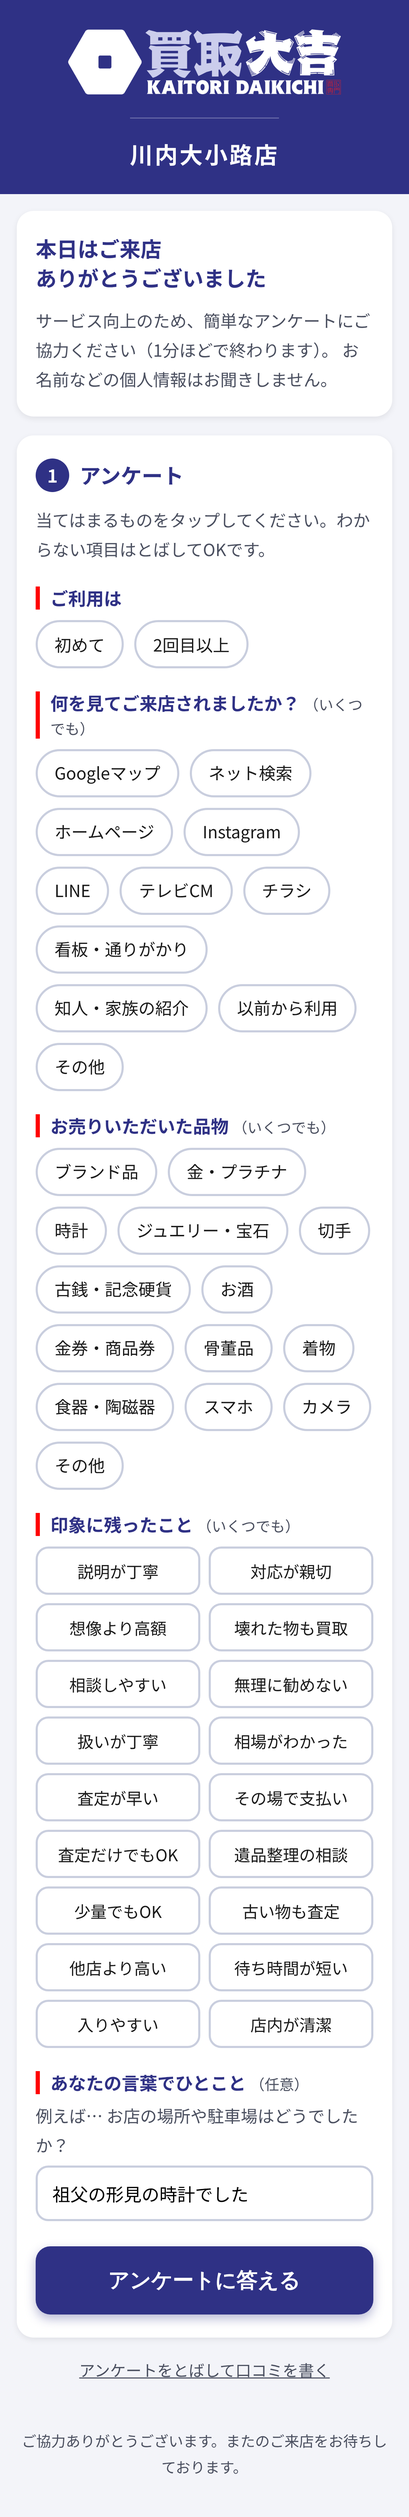
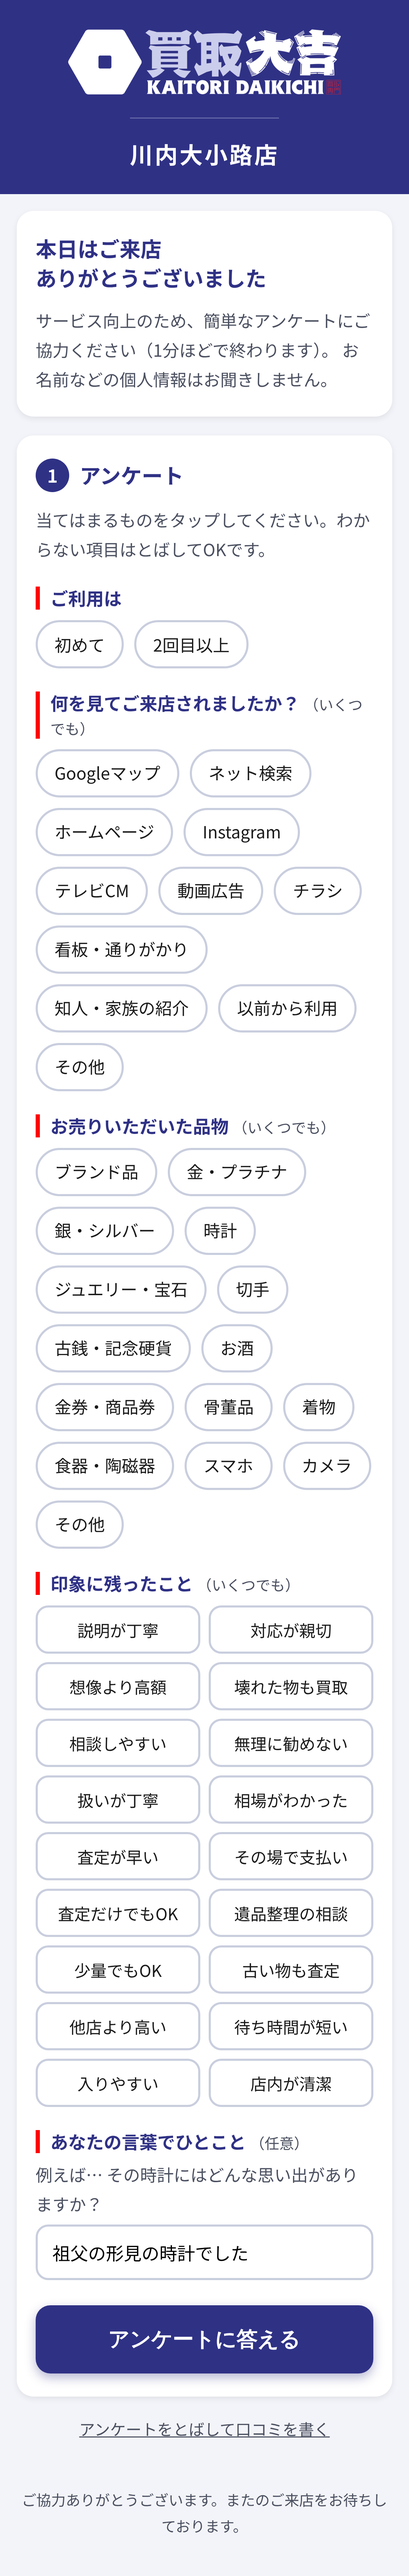
「あなたの言葉でひとこと」の質問と記入例を、選んだ項目に合わせて変える
- 遺品整理・壊れた物 → きっかけ、初めて・無理に勧めない → 来店前の不安、
  品物1つ → その品物の思い出、スタッフ系 → スタッフ、お店の環境系 → 場所・駐車場
- 質問・記入例に選んだ品物名を入れる（例：その時計にはどんな思い出が…）
- 品物ごとに思い出の記入例を用意（時計・着物・切手など）
- 一言を書き始めたら質問は固定。質問も一言と一緒に一時保存し、再読み込み後もずれない

Claude-Session: https://claude.ai/code/session_019pqPey41PXqapbJbBahgUt

diff --git a/index.html b/index.html
@@ -361,13 +361,28 @@ const CONFIG = {
   //     beforeBody  … 良かった点の前。後ろに「でも、」をつけて体験へつなぐ（不安だったこと）
   //     afterBody   … 良かった点の後（スタッフ・お店のこと）
   //   ex: 入力欄に薄く出す記入例（文の形をまねしてもらいやすい）
-  questions: [
-    { q: "売ろうと思ったきっかけは？",          ex: "例：実家の片付けをしていて",       pos: "start" },
-    { q: "その品物にはどんな思い出がありますか？", ex: "例：祖父の形見の時計でした",       pos: "afterOpening" },
-    { q: "お店に来る前、不安だったことは？",      ex: "例：買取は初めてで緊張していました", pos: "beforeBody" },
-    { q: "対応したスタッフはどうでしたか？",      ex: "例：担当の方がとても話しやすかったです", pos: "afterBody" },
-    { q: "お店の場所や駐車場はどうでしたか？",    ex: "例：駐車場に停めやすかったです",     pos: "afterBody" },
-  ],
+  //   {item} は選んだ品物の言葉（品物が1つの時）に置き換わる
+  //   どの質問を出すかは、上で選んだ項目から決める（chooseQuestion を参照）
+  questions: {
+    trigger:       { q: "売ろうと思ったきっかけは？",            ex: "例：実家の片付けをしていて",              pos: "start" },
+    triggerIhin:   { q: "売ろうと思ったきっかけは？",            ex: "例：母の遺品を整理していて",              pos: "start" },
+    triggerBroken: { q: "売ろうと思ったきっかけは？",            ex: "例：壊れて使わなくなった{item}を整理したくて", pos: "start" },
+    memory:        { q: "その{item}にはどんな思い出がありますか？", ex: "例：長年大事にしていた{item}でした",     pos: "afterOpening" },
+    worry:         { q: "お店に来る前、不安だったことは？",        ex: "例：買取は初めてで緊張していました",      pos: "beforeBody" },
+    worryPush:     { q: "お店に来る前、不安だったことは？",        ex: "例：しつこく勧められないか心配でした",    pos: "beforeBody" },
+    staff:         { q: "対応したスタッフはどうでしたか？",        ex: "例：担当の方がとても話しやすかったです",  pos: "afterBody" },
+    place:         { q: "お店の場所や駐車場はどうでしたか？",      ex: "例：駐車場に停めやすかったです",          pos: "afterBody" },
+  },
+  // 「思い出」の記入例を品物ごとに変える（ないものは上の memory の例を使う）
+  memoryEx: {
+    "時計": "例：祖父の形見の{item}でした",
+    "着物": "例：母が大切にしていた{item}でした",
+    "金・プラチナ": "例：昔プレゼントでもらった物でした",
+    "ジュエリー・宝石": "例：昔プレゼントでもらった物でした",
+    "古銭・記念硬貨": "例：父が集めていた物でした",
+    "切手": "例：父が集めていた物でした",
+    "骨董品": "例：祖父の代から家にあった物でした",
+  },
 };
 
 /* =========================================================
@@ -402,18 +417,38 @@ function reroll() {
   });
 }
 
-// 質問は開いた時に1回だけ決める（「別の言い方にする」で質問が変わると、答えとずれるため）
-// 再読み込みしても同じ質問になるよう、番号を一時保存する
-let QUESTION;
-(function chooseQuestion() {
-  let i = -1;
-  try { i = parseInt(sessionStorage.getItem("review-q"), 10); } catch (_) {}
-  if (!(i >= 0 && i < CONFIG.questions.length)) i = Math.floor(Math.random() * CONFIG.questions.length);
-  try { sessionStorage.setItem("review-q", String(i)); } catch (_) {}
-  QUESTION = CONFIG.questions[i];
+/* ---- 「あなたの言葉でひとこと」の質問と記入例 ----
+   上で選んだ項目に合わせて、答えやすい質問を出す（上の行ほど優先）
+   ・一言を書き始めたら質問は固定（質問と答えがずれないように）
+   ・何も当てはまらない時は、開いた時にランダムで決めた質問 */
+const Q_KEY = "review-q2";
+const DEFAULT_Q = pick(["trigger", "worry", "staff", "place"]);
+let QUESTION = null;
+function chooseQuestion(sel) {
+  const has = l => sel.point.includes(l);
+  const items = sel.item.filter(x => x !== "その他");
+  const one = items.length === 1 ? items[0] : null;            // 品物が1つだけの時
+  const word = one || "";   // 質問ではボタンの表示（「金・プラチナ」等）をそのまま使う（短く分かりやすく）
+  const Q = CONFIG.questions;
+  let key, ex;
+  if (has("遺品整理の相談"))                                     key = "triggerIhin";
+  else if (has("壊れた物も買取"))                                key = "triggerBroken";
+  else if (has("無理に勧めない") || has("査定だけでもOK"))       key = "worryPush";
+  else if (sel.visit === "初めて")                               key = "worry";
+  else if (one)                                                  { key = "memory"; ex = CONFIG.memoryEx[one]; }
+  else if (["対応が親切", "相談しやすい", "扱いが丁寧", "説明が丁寧"].some(has)) key = "staff";
+  else if (["待ち時間が短い", "入りやすい", "店内が清潔"].some(has))           key = "place";
+  else                                                           key = DEFAULT_Q;
+  const base = Q[key];
+  const put = t => t.replace(/\{item\}/g, word || "物");
+  return { key, q: put(base.q), ex: put(ex || base.ex), pos: base.pos };
+}
+function updateQuestion() {
+  if (QUESTION && ownValue()) return;                         // 書き始めたら固定
+  QUESTION = chooseQuestion(selected);
   document.querySelectorAll(".ownQ").forEach(el => el.textContent = QUESTION.q);
   document.querySelectorAll(".own").forEach(el => el.placeholder = QUESTION.ex);
-})();
+}
 
 // ["A","B","C"] → "A、BとC"
 function joinItems(list) {
@@ -566,6 +601,7 @@ function build() {
 
 // quiet=true のときは、お客様が手で直した文章があれば何もしない（確認も出さない）
 function refresh(quiet) {
+  updateQuestion();   // 選んだ項目に合わせて質問・記入例を更新（書き始めていれば固定のまま）
   const edited = textarea.value !== lastGenerated && textarea.value.trim() !== "";
   if (edited) {
     if (quiet) return;
@@ -588,14 +624,27 @@ textarea.addEventListener("input", fitHeight);
 const OWN_KEY = "review-own";
 function syncOwn(src) {
   ownInputs.forEach(other => { if (other !== src) other.value = src.value; });
-  try { sessionStorage.setItem(OWN_KEY, src.value); } catch (_) { /* 保存できない環境でも動く */ }
+  try {
+    sessionStorage.setItem(OWN_KEY, src.value);
+    // 一言と一緒に「どの質問への答えか」も保存（再読み込みしても質問と答えがずれない）
+    if (src.value.trim() && QUESTION) sessionStorage.setItem(Q_KEY, JSON.stringify(QUESTION));
+    else sessionStorage.removeItem(Q_KEY);
+  } catch (_) { /* 保存できない環境でも動く */ }
   refresh(true);
 }
 ownInputs.forEach(inp => ["input", "compositionend", "change"].forEach(ev =>
   inp.addEventListener(ev, () => syncOwn(inp))));
 try {
   const saved = sessionStorage.getItem(OWN_KEY);
-  if (saved) ownInputs.forEach(inp => inp.value = saved);
+  const savedQ = JSON.parse(sessionStorage.getItem(Q_KEY) || "null");
+  if (saved) {
+    ownInputs.forEach(inp => inp.value = saved);
+    if (savedQ && savedQ.pos) {
+      QUESTION = savedQ;
+      document.querySelectorAll(".ownQ").forEach(el => el.textContent = QUESTION.q);
+      document.querySelectorAll(".own").forEach(el => el.placeholder = QUESTION.ex);
+    }
+  }
 } catch (_) {}
 
 function updatePointChips() {
